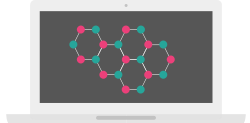
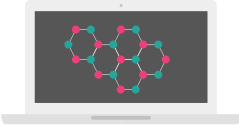
Resized images.

diff --git a/css/style.css b/css/style.css
@@ -86,10 +86,11 @@ h1 {
   position: absolute;
   width: 100%;
   text-align: center;
-  line-height: 800px;
+  line-height: 690px;
 }
 
 .header-image {
+  max-width: 250px;  
   position: relative;
   z-index: -1;
 }
@@ -181,7 +182,7 @@ h1 {
 }
 
 #particles-js {
-  height: 600px;
+  height: 500px;
   position: relative;
   z-index: -2;
   background: rgba(63,81,181,1);
